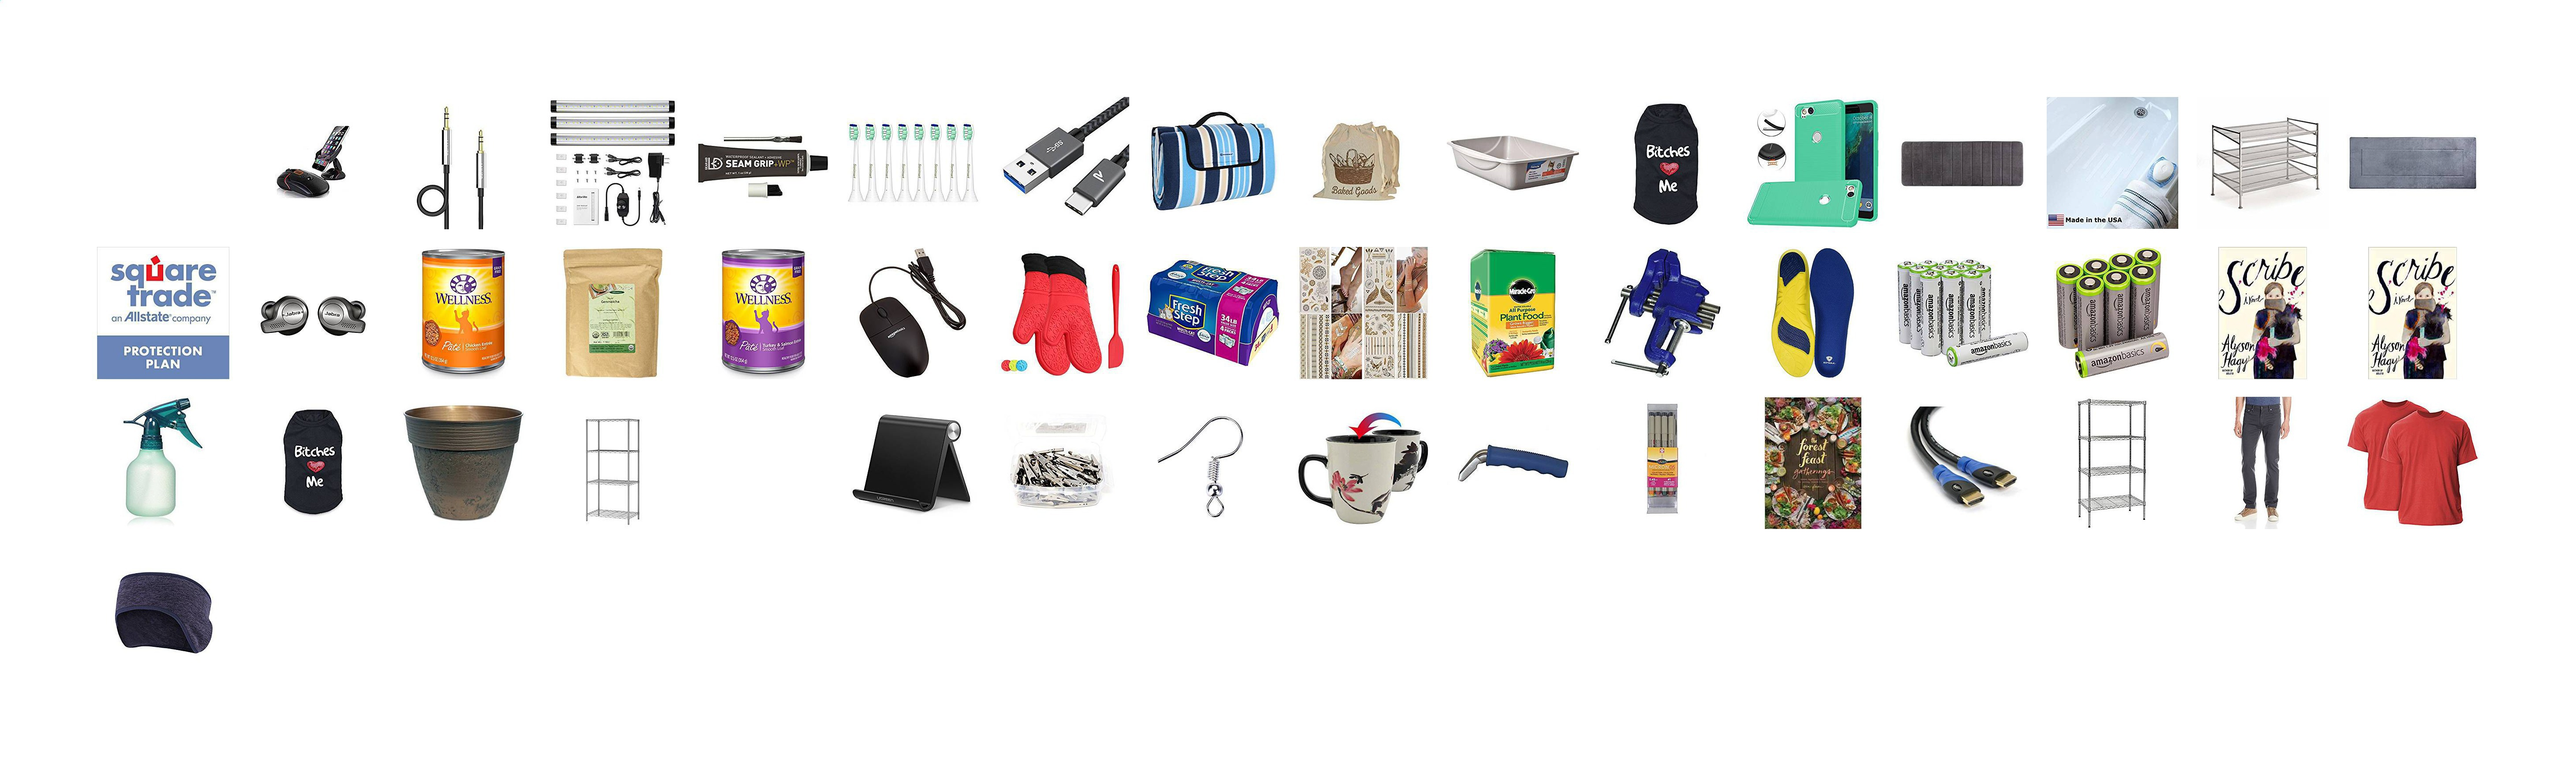
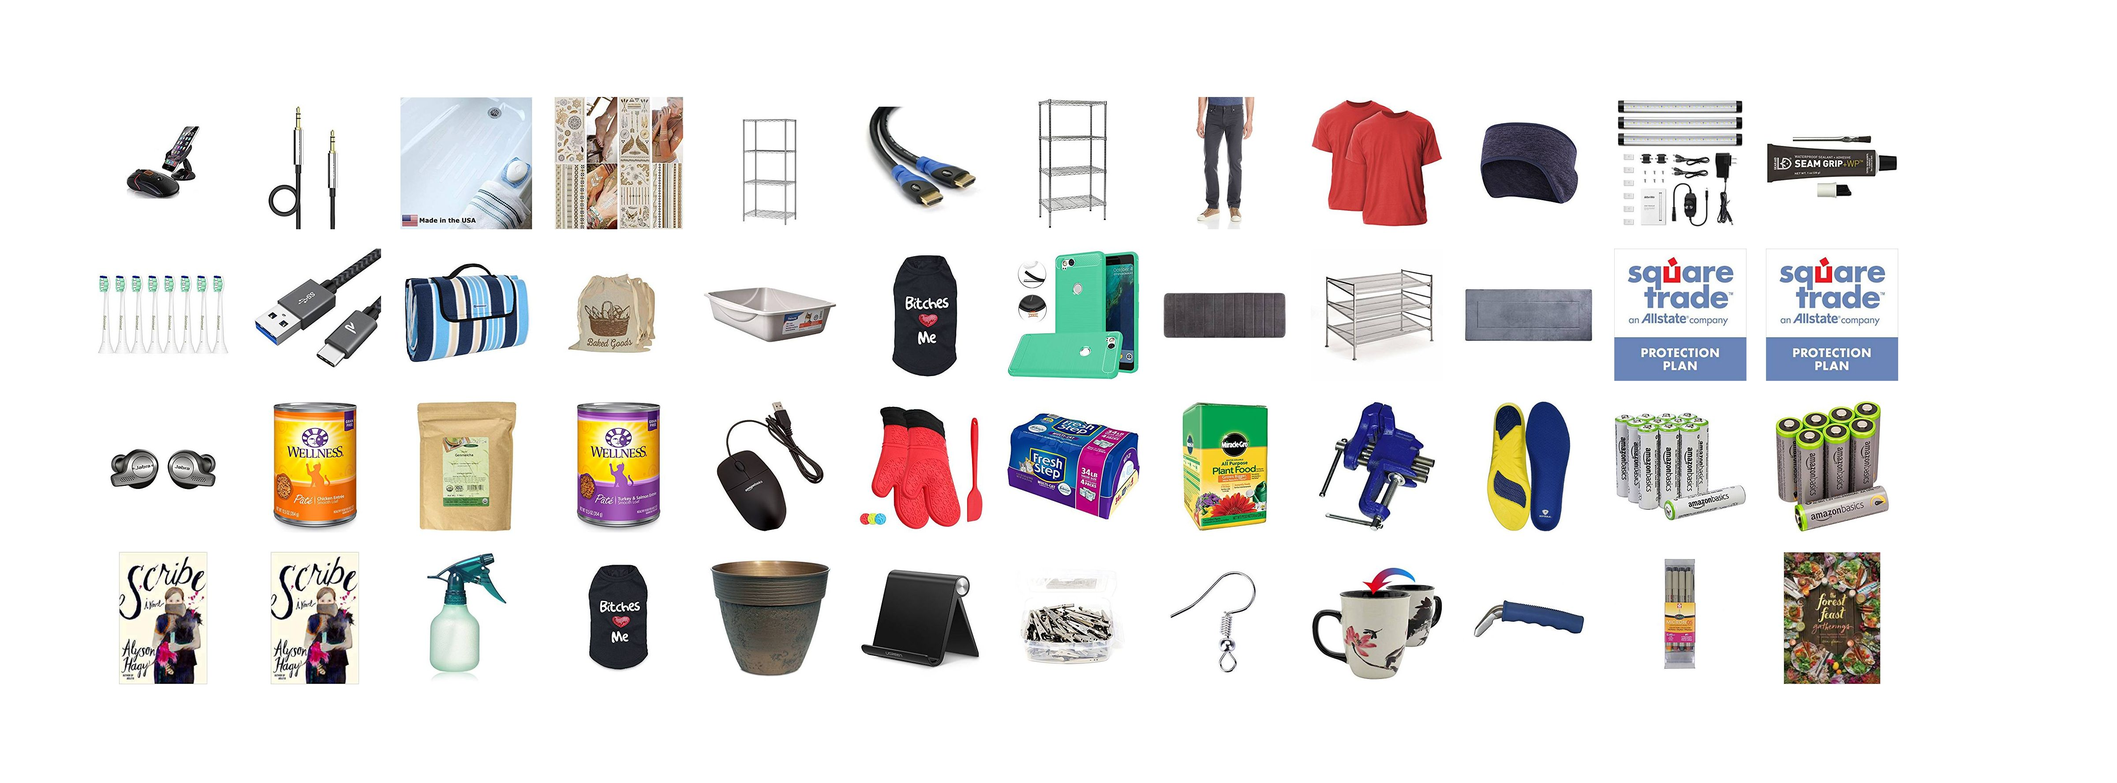
hide broken images

diff --git a/assemble-collage.js b/assemble-collage.js
@@ -59,6 +59,17 @@ const getHTML = (imageFiles) => {
           width: ${imageDimension}px;
         }
       </style>
+      <script>
+        // hide broken images
+        // https://stackoverflow.com/a/22051972/358804
+        document.addEventListener("DOMContentLoaded", function(event) {
+          document.querySelectorAll('img').forEach(function(img){
+            img.onerror = function() {
+              this.style.display='none';
+            };
+          })
+        });
+      </script>
     </head>
     <body>
       ${images.join('\n')}
